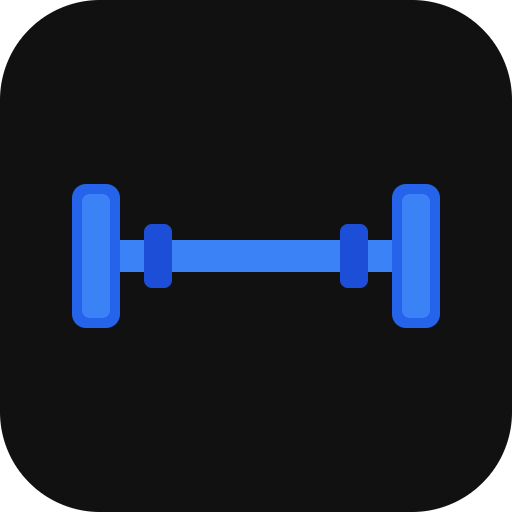
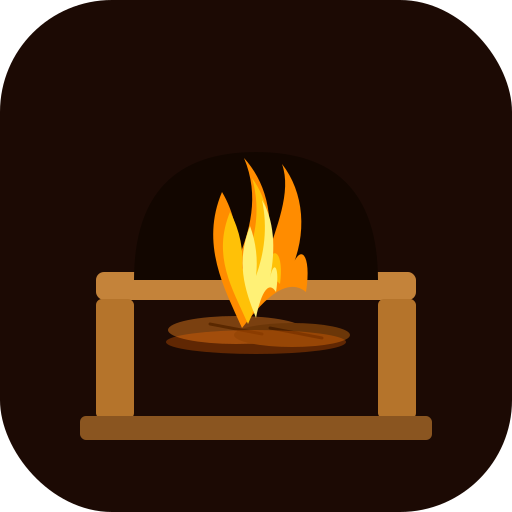
Add files via upload

diff --git a/index.html b/index.html
@@ -5,12 +5,12 @@
 <meta http-equiv="Cache-Control" content="no-cache, no-store, must-revalidate">
 <meta http-equiv="Pragma" content="no-cache">
 <meta name="viewport" content="width=device-width,initial-scale=1,user-scalable=no">
-<meta name="theme-color" content="#1A3D1E" id="themeColor">
+<meta name="theme-color" content="#1C0A04" id="themeColor">
 <meta name="apple-mobile-web-app-capable" content="yes">
 <meta name="apple-mobile-web-app-status-bar-style" content="black">
-<meta name="apple-mobile-web-app-title" content="FreshList">
+<meta name="apple-mobile-web-app-title" content="Hearth">
 <link rel="manifest" href="manifest.json">
-<title>FreshList</title>
+<title>Hearth</title>
 <style>
 :root{--accent:#2D6B35;}
 *,*::before,*::after{box-sizing:border-box;margin:0;padding:0;-webkit-tap-highlight-color:transparent}
@@ -647,7 +647,7 @@ body.train-mode #toast{background:#132040}
     </div>
     <div class="home-week-strip" id="homeWeekStrip"></div>
 
-    <div style="text-align:center;margin-top:20px;font-size:11px;color:#2A3A52;font-weight:600;letter-spacing:.4px">v24</div>
+    <div style="text-align:center;margin-top:20px;font-size:11px;color:#2A3A52;font-weight:600;letter-spacing:.4px">v25</div>
 
   </div>
 </div>
@@ -2940,7 +2940,7 @@ function switchSection(section) {
 
   if (section === "home") {
     document.getElementById("themeColor").setAttribute("content", "#111820");
-    document.getElementById("appTitle").innerHTML = "&#x1F4F1; Today";
+    document.getElementById("appTitle").innerHTML = "innerHTML = "&#x1F4F1; Today"#x1F525; Hearth";
     document.getElementById("hdrBadge").style.display = "none";
     renderHomeScreen();
   } else if (section === "lists") {

diff --git a/sw.js b/sw.js
@@ -1,5 +1,5 @@
 const CACHE = 'myhealth-v1';
-// v24 — 2026-05-09
+// v25 — 2026-05-09
 const ASSETS = [
   './',
   './index.html',